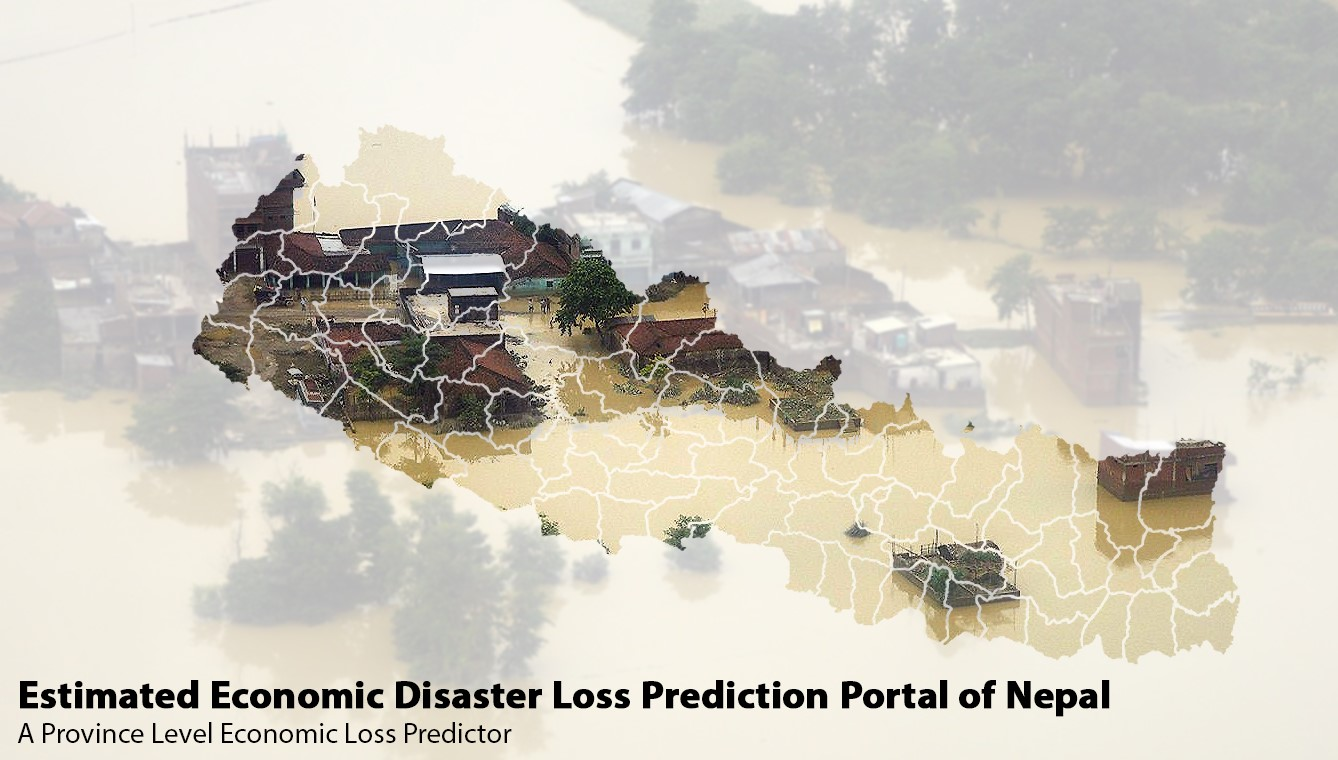
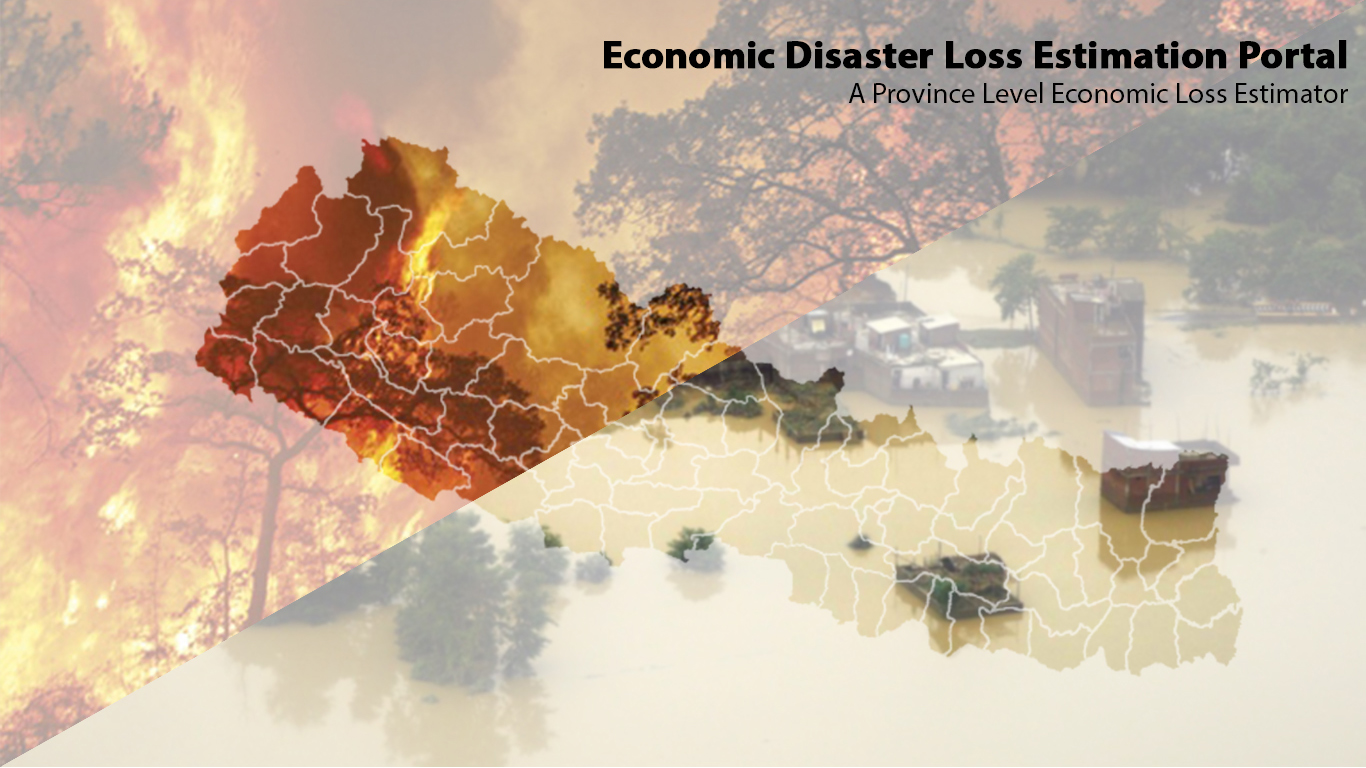
3 PM upload after presenting

diff --git a/disaster management/index.html b/disaster management/index.html
@@ -2,8 +2,8 @@
 <html lang="en">
 
 <head>
-	<link rel="icon" href="images/team-3.jpg">
-	<title>Estimated Disaster Loss Prediction Portal</title>
+	<link rel="icon" href="images/logo.png">
+	<title>Economic Disaster Loss Estimation Portal</title>
 	<!-- add bootstrap css file -->
 
 	<link rel="stylesheet" type="text/css" href="css/bootstrap.min.css">
@@ -26,6 +26,10 @@
 			display: inline-block;
 			border: 1px solid #ccc;
 			box-sizing: border-box;
+		}
+
+		pre {
+			font-family: Arial, Helvetica, sans-serif;
 		}
 
 		/* Set a style for all buttons */
@@ -165,7 +169,7 @@
 <body>
 	<!-- navbar -->
 	<nav class="navbar navbar-expand-lg fixed-top ">
-		<a class="navbar-brand" href="#">Home</a>
+		<a class="navbar-brand" href="#">Economic Disaster Loss Estimation Portal</a>
 		<button class="navbar-toggler" type="button" data-toggle="collapse" data-target="#navbarSupportedContent"
 			aria-controls="navbarSupportedContent" aria-expanded="false" aria-label="Toggle navigation">
 			<span class="navbar-toggler-icon"></span>
@@ -204,27 +208,15 @@
 				<tr>
 					<th>
 						<form action="/action_page.php">
-							<select name="Select Your State" required>
+							<select name="Select Your State" required id="province_no">
 								<option value="">Select Province</option>
-								<option value="Province2">Province-1</option>
+								<option value="Province1">Province-1</option>
 								<option value="Province2">Province-2</option>
 								<option value="Province3">Province-3</option>
 								<option value="Gandaki">Gandaki</option>
 								<option value="Province5">Province-5</option>
 								<option value="Karnali">Karnali</option>
 								<option value="Sudurpaschim">Sudurpaschim</option>
-							</select>
-						</form>
-					</th>
-				</tr>
-				<tr>
-					<th>
-						<form action="/action_page.php">
-							<select name="Belt" required>
-								<option value="">Select Belt</option>
-								<option value="hill">Hill</option>
-								<option value="mountain">Mountain</option>
-								<option value="terai">Terai</option>
 							</select>
 						</form>
 					</th>
@@ -237,13 +229,11 @@
 						<!-- Modal content -->
 						<div class="modal-content">
 							<span class="close">&times;</span>
-							<img src="images/headerback.jpg" class="img-fluid">
-
+							<img src="images/logo.png" class="img-fluid">
 							<input type="button" class="button" value="Download"
-								onClick="window.location.href='file.csv'">
+								onClick="window.location.href='Opendatafileofdisasterparameters.xlsx'">
 						</div>
 					</div>
-
 					<script>
 						// Get the modal
 						var modal = document.getElementById("myModal");
@@ -256,6 +246,12 @@
 
 						// When the user clicks the button, open the modal 
 						btn.onclick = function () {
+							var province_no = document.getElementById('province_no');
+							if (province_no.value == '') {
+								alert("Please Select province no.");
+								return false;
+								modal.style.display = 'none';
+							}
 							modal.style.display = "block";
 						}
 
@@ -282,14 +278,17 @@
 			<h1 class="text-center">About Estimated Disaster Loss Prediction Portal</h1>
 			<div class="row">
 				<div class="col-lg-4 col-md-4 col-sm-12">
-					<img src="images/team-3.jpg" class="img-fluid">
+					<img src="images/logo.png" class="img-fluid">
 				</div>
 				<div class="col-lg-8 col-md-8 col-sm-12 desc">
 					<p>
-						The portal shows the predicted economic loss data of disasters from the year 2011 till present.
-						The data is sourced from BIPAD (Building Information Platform Against Disaster), a
-						government-led integrated disaster information management system (DIMS). The estimated loss data
-						has been predicted using OSL (Ordinary Least Square) Regression model.
+						The portal provides the estimated economic loss data based on the past disasters from 2011 till
+						present. The data is sourced from BIPAD (Building Information Platform Against Disaster), a
+						government-led integrated Disaster Information Management System (DIMS).
+						The estimated loss data generated aims to help the decision makers to identify high priority
+						areas for effective preparedness and mitigation planning and decision making. The output will
+						also help the decision makers to plan for effective budget allocation. The data has been
+						estimated using OSL (Ordinary Least Square) method.
 					</p>
 				</div>
 			</div>
@@ -299,7 +298,45 @@
 	<!--Research portfolio -->
 	<div class="portfolio" id="portfolio">
 		<h1 class="text-center">Methodology</h1>
+		<div class="container",align="center">
+		<pre>
+					The estimated model has been generated using the OSL Regression Model (Ordinary Least Square).
+					Ordinary least squares (OLS) regression is a statistical method of analysis that estimates the 
+					relationship between multiple independent variables and a dependent variable;
+					the method estimates the relationship by minimizing the sum of the squares in the 
+					difference between the observed and predicted values of the dependent variable configured as a straight line.
+					The total loss has been taken as the dependent variable and different 
+					hazards that caused the economic loss has been taken as the independent variable.
+					Particularly, the independent variables used are the province, belt, 
+					and hazards (animal terror, drowning, epidemic, fire, flood, hailstorm, 
+					heavy rainfall, high altitude, landslide, thunderbolt and other natural hazards.
 
+					The OLS regression analysis used is 
+					Y= a + b1x1 + b2x2 + ……………. + bnxn
+					
+					Y= Total Estimated Economic Loss
+					x1 = Province fixed effect
+					x2 = Belt fixed effect
+					x3 = Animal terror
+					x4= Drowning
+					x5= Epidemic
+					x6=Fire
+					x7= Flood
+					x8= Hailstorm
+					x9= Heavy rainfall
+					x10= High Altitude	 
+					x11= Landslide
+					x12= Thunderbolt
+					x13= Other natural hazards
+					
+					The findings are
+					
+					Fire was the most frequent hazards
+					Total economic loss was most affected by hailstorm
+					Most of the hazards was concentrated within some specific location (data error maybe)
+					We estimate Morang to have the largest economic loss by hazards at log10(8.4872)					
+			</pre>
+		</div>
 	</div>
 
 	<!-- Team section -->
@@ -308,28 +345,28 @@
 			<h1 class="text-center">Our Team</h1>
 			<div class="row">
 				<div class="col-lg-3 col-md-3 col-sm-12 item">
-					<img src="images/team-2.jpg" class="img-fluid" alt="team">
+					<img src="images/logo.png" class="img-fluid" alt="team">
 					<div class="des">
 						Gunjan Ghimire
 					</div>
 					<span class="text-muted">Founder</span>
 				</div>
 				<div class="col-lg-3 col-md-3 col-sm-12 item">
-					<img src="images/team-3.jpg" class="img-fluid" alt="team">
+					<img src="images/logo.png" class="img-fluid" alt="team">
 					<div class="des">
 						Huckster
 					</div>
 					<span class="text-muted">Co-Founder</span>
 				</div>
 				<div class="col-lg-3 col-md-3 col-sm-12 item">
-					<img src="images/team-2.jpg" class="img-fluid" alt="team">
+					<img src="images/logo.png" class="img-fluid" alt="team">
 					<div class="des">
 						Ms. Jane Nobody
 					</div>
 					<span class="text-muted">Researcher</span>
 				</div>
 				<div class="col-lg-3 col-md-3 col-sm-12 item">
-					<img src="images/team-3.jpg" class="img-fluid" alt="team">
+					<img src="images/logo.png" class="img-fluid" alt="team">
 					<div class="des">
 						Mr. Jone Done
 					</div>
